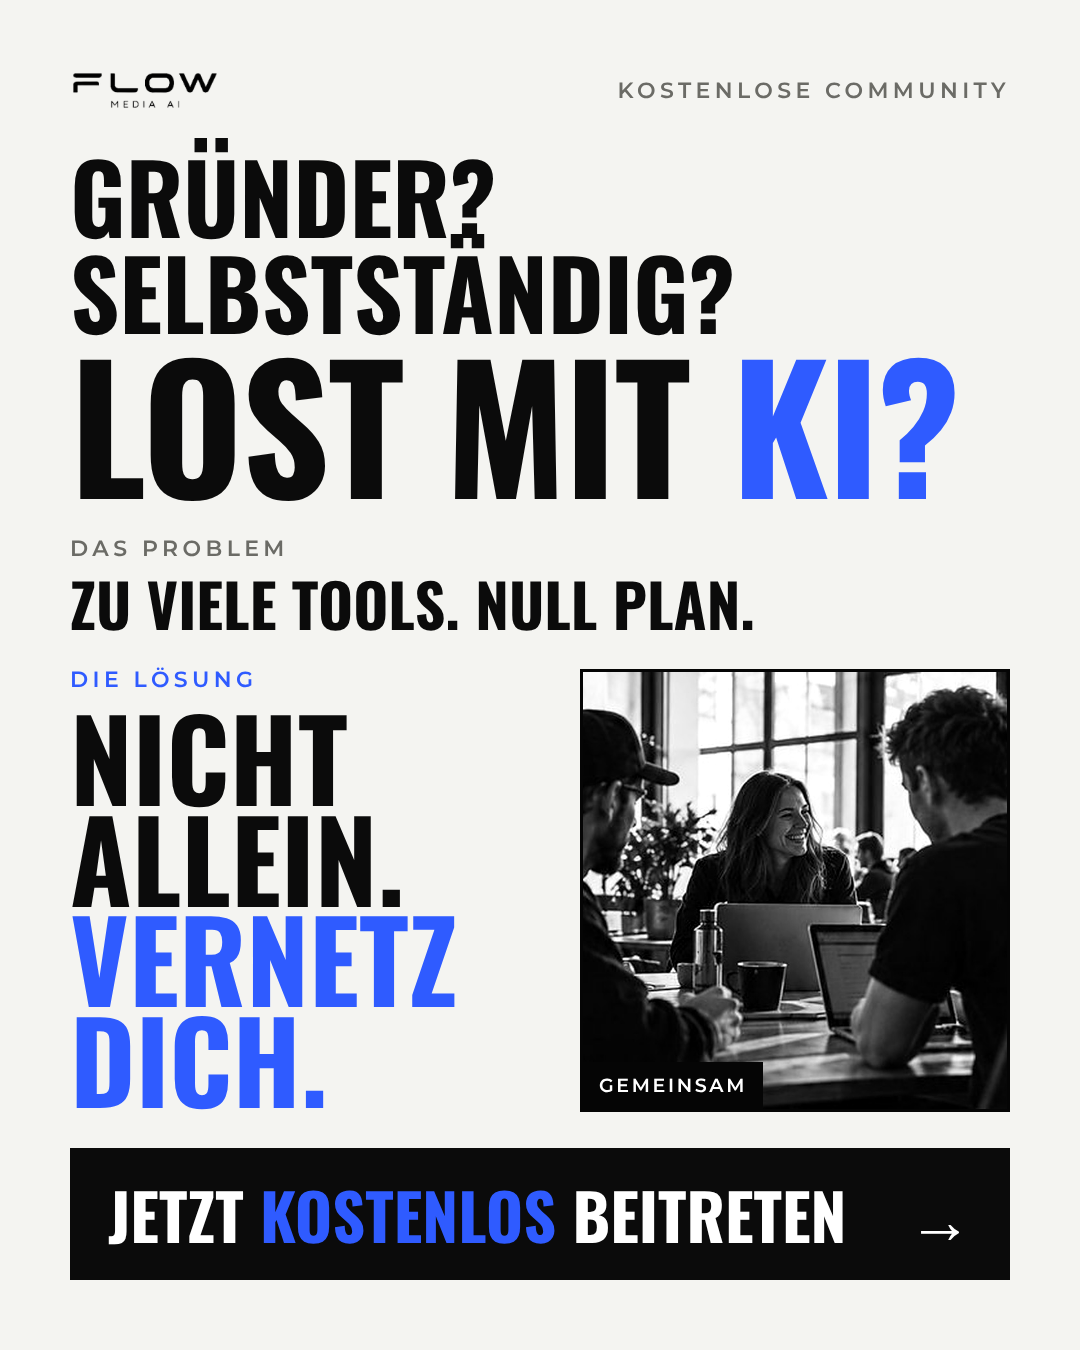
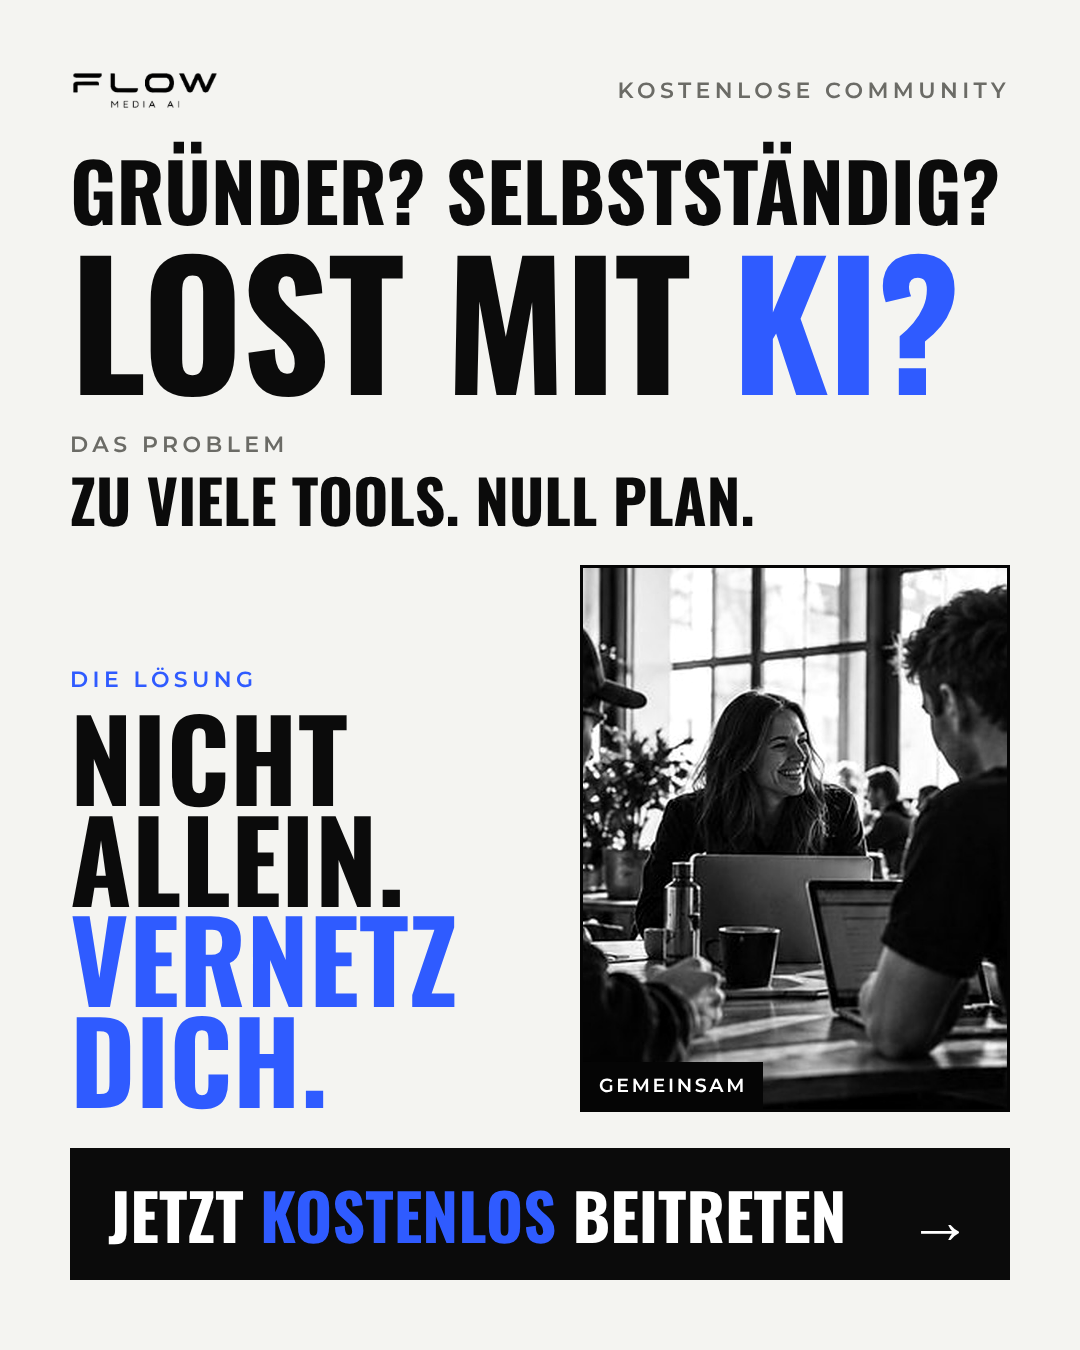
Community-Post: Zielgruppe in einer Zeile
Claude-Session: https://claude.ai/code/session_013fteYFceKiG7Uk7Z2ie8Jy

Changed region(s): [[0.0611, 0.0933, 0.9472, 0.8089]]

diff --git a/marketing/community/ad/post.html b/marketing/community/ad/post.html
@@ -6,7 +6,7 @@
 .p{width:1080px;height:1350px;padding:70px;display:flex;flex-direction:column;gap:44px;color:var(--ink);font-family:Inter,sans-serif}
 .top{display:flex;justify-content:space-between;align-items:center}.top img{width:150px;filter:invert(1)}
 .lab{font:600 22px Montserrat;letter-spacing:.2em;text-transform:uppercase;color:var(--mute)}
-.ziel{font:700 96px/1 Oswald;text-transform:uppercase;margin-bottom:6px}h1{font:700 172px/.9 Oswald;text-transform:uppercase;letter-spacing:-.01em}h1 em{font-style:normal;color:var(--blue)}
+.ziel{font:700 80px/1.05 Oswald;text-transform:uppercase;margin-bottom:10px;white-space:nowrap}h1{font:700 172px/.9 Oswald;text-transform:uppercase;letter-spacing:-.01em}h1 em{font-style:normal;color:var(--blue)}
 .row{display:flex;gap:40px;flex:1;min-height:0}
 .txt{flex:1;display:flex;flex-direction:column;justify-content:space-between;padding:4px 0}
 .k{font:600 22px Montserrat;letter-spacing:.2em;text-transform:uppercase;color:var(--mute);margin-bottom:12px}.k.b{color:var(--blue)}
